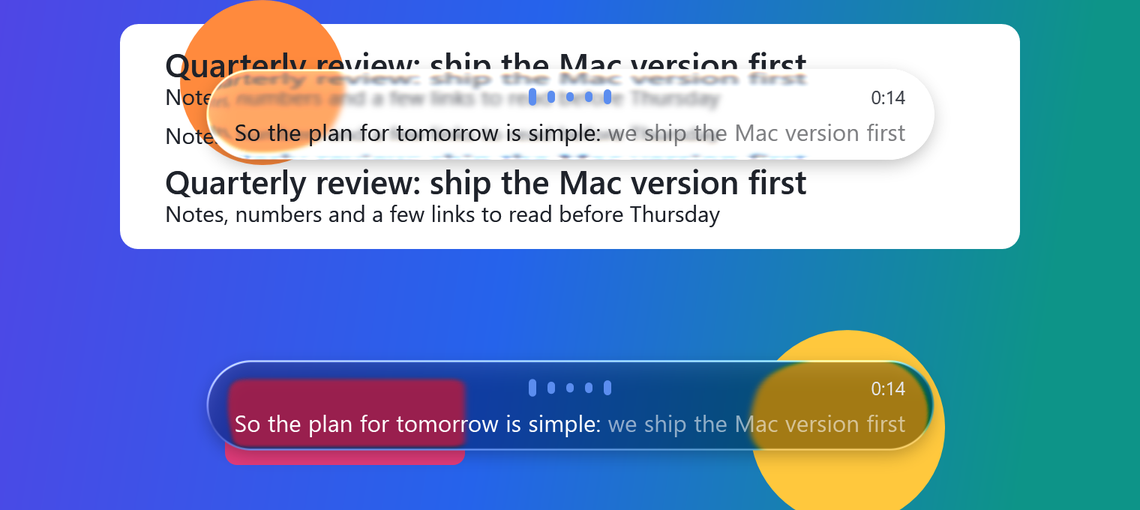
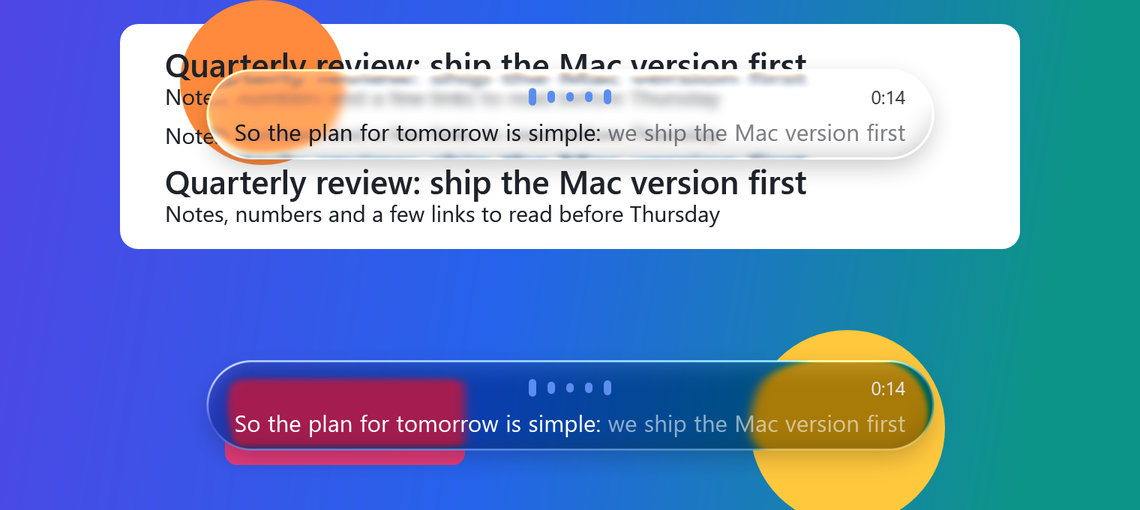
Liquid Glass closer to Apple's on both apps
- Mac: Liquid Glass is the system's own glass on macOS 26, no longer forced
  dark: it turns light or dark with what's behind it, and the words use the
  system's adaptive label colors. Before macOS 26 it is the system material,
  light or dark with the Mac, with a lit rim and a soft shadow.
- Windows: a heavier frost, more vivid color behind, the bezel a touch darker
  away from the light, and a larger, softer shadow. The room around the
  capsule grows with its size, so large capsules have space to bend and blur.
- Windows: without a compiled shader the glass layer draws no effect, rather
  than failing to render.

diff --git a/macos/Sources/SuperDictate/UI/CapsulePill.swift b/macos/Sources/SuperDictate/UI/CapsulePill.swift
@@ -125,7 +125,7 @@ struct CapsulePill: View {
                 if caption.isEmpty {
                     Text(status ?? (processing ? "Processing…" : "Listening…"))
                         .font(.system(size: 13 * scale, weight: .medium))
-                        .foregroundStyle(Color(skin.muted))
+                        .foregroundStyle(muted)
                         .transition(.opacity)
                 } else {
                     LiveWords(caption: caption, processing: processing, widest: style.textWidth, size: 14 * scale)
@@ -133,15 +133,19 @@ struct CapsulePill: View {
                 if style.timer, let started, !processing {
                     Text(timerInterval: started ... Date.distantFuture, countsDown: false)
                         .font(.system(size: 11 * scale, weight: .medium).monospacedDigit())
-                        .foregroundStyle(Color(skin.muted))
+                        .foregroundStyle(muted)
                 }
             }
         }
-        .foregroundStyle(Color(skin.text))
+        .foregroundStyle(skin.isGlass ? AnyShapeStyle(.primary) : AnyShapeStyle(Color(skin.text)))
         .padding(.horizontal, 18 * scale)
         .frame(minWidth: CapsuleStyle.narrowest * scale, minHeight: CapsuleStyle.height * scale)
         .modifier(CapsuleSurface(style: style, rim: rim))
         .opacity(style.opacity)
+    }
+
+    private var muted: AnyShapeStyle {
+        style.skin.isGlass ? AnyShapeStyle(.secondary) : AnyShapeStyle(Color(style.skin.muted))
     }
 
     private var rim: AnyShapeStyle {
@@ -154,16 +158,18 @@ struct CapsulePill: View {
             AnyShapeStyle(LinearGradient(colors: [style.accentColor, Color(RGBA(0xB36BFF)), Color(RGBA(0x3DD6C4))],
                                          startPoint: .leading, endPoint: .trailing))
         case .glass:
-            AnyShapeStyle(LinearGradient(colors: [.white.opacity(0.78), .white.opacity(0.12), .white.opacity(0.43)],
+            // Light from above catches the top of the rim, and faintly the bottom.
+            AnyShapeStyle(LinearGradient(colors: [.white.opacity(0.7), .white.opacity(0.08), .white.opacity(0.3)],
                                          startPoint: .top, endPoint: .bottom))
         }
     }
 }
 
-/// The capsule's body: the skin's fill and rim. A Liquid Glass skin is Apple's
-/// own glass on macOS 26 and later, in its dark variant so the white words read
-/// over anything; before that it is painted as on Windows, over a blur of
-/// whatever is behind it.
+/// The capsule's body: the skin's fill and rim. Liquid Glass is Apple's own
+/// glass on macOS 26 and later, light or dark with what's behind it, and the
+/// words on it follow, as on the system's own glass. Before macOS 26 (and in the
+/// snapshot pictures) it is the system material, light or dark with the Mac's
+/// appearance, with a lit rim and a soft shadow.
 private struct CapsuleSurface: ViewModifier {
     let style: CapsuleStyle
     let rim: AnyShapeStyle
@@ -172,14 +178,12 @@ private struct CapsuleSurface: ViewModifier {
     func body(content: Content) -> some View {
         if style.skin.isGlass {
             if paintsGlass {
-                paintedGlass(content)
+                materialGlass(content)
             } else {
                 if #available(macOS 26, *) {
-                    content
-                        .glassEffect(.regular, in: Capsule())
-                        .environment(\.colorScheme, .dark)
+                    content.glassEffect(.regular, in: Capsule())
                 } else {
-                    paintedGlass(content)
+                    materialGlass(content)
                 }
             }
         } else {
@@ -189,9 +193,11 @@ private struct CapsuleSurface: ViewModifier {
         }
     }
 
-    private func paintedGlass(_ content: Content) -> some View {
-        painted(content)
-            .background(.ultraThinMaterial, in: Capsule())
+    private func materialGlass(_ content: Content) -> some View {
+        content
+            .background(.regularMaterial, in: Capsule())
+            .overlay(CapsuleRim(width: 0.8 * style.scale).fill(rim, style: FillStyle(eoFill: true)))
+            .shadow(color: .black.opacity(0.2), radius: 18 * style.scale, y: 6 * style.scale)
     }
 
     private func painted(_ content: Content) -> some View {
@@ -199,15 +205,6 @@ private struct CapsuleSurface: ViewModifier {
         return content
             .background(LinearGradient(colors: [Color(skin.fill), Color(skin.fillEnd)], startPoint: .top, endPoint: .bottom),
                         in: Capsule())
-            .overlay {
-                if skin.isGlass {
-                    // The sheen glass catches across its top.
-                    Capsule()
-                        .fill(LinearGradient(colors: [.white.opacity(0.28), .white.opacity(0)], startPoint: .top, endPoint: .center))
-                        .padding(skin.borderWidth)
-                        .allowsHitTesting(false)
-                }
-            }
             .overlay(CapsuleRim(width: skin.borderWidth).fill(rim, style: FillStyle(eoFill: true)))
     }
 }

diff --git a/src/SuperDictate/Ui/LiveGlass.cs b/src/SuperDictate/Ui/LiveGlass.cs
@@ -28,14 +28,14 @@ internal sealed class LiveGlass : Grid, IDisposable
 {
     private static readonly TimeSpan Interval = TimeSpan.FromMilliseconds(50);
 
-    private readonly Image _behind = new() { Stretch = Stretch.Fill, Effect = new BlurEffect { Radius = 6 } };
+    private readonly Image _behind = new() { Stretch = Stretch.Fill, Effect = new BlurEffect { Radius = 10 } };
     private readonly GlassLens _lens = new();
     private readonly Border _shadow = new()
     {
         Background = Brushes.Black,
         HorizontalAlignment = HorizontalAlignment.Left,
         VerticalAlignment = VerticalAlignment.Top,
-        Effect = new DropShadowEffect { BlurRadius = 18, ShadowDepth = 4, Direction = 270, Opacity = 0.28 },
+        Effect = new DropShadowEffect { BlurRadius = 24, ShadowDepth = 6, Direction = 270, Opacity = 0.22 },
     };
 
     private WriteableBitmap? _image;
@@ -55,7 +55,8 @@ internal sealed class LiveGlass : Grid, IDisposable
         Children.Add(_shadow);
         // The clip keeps the blur from widening what the shader sees, so its
         // coordinates stay the layer's own.
-        Children.Add(new Grid { Effect = _lens, Children = { new Grid { ClipToBounds = true, Children = { _behind } } } });
+        // Without a shader (it didn't compile) the layer draws no effect; the window never shows it then.
+        Children.Add(new Grid { Effect = Available ? _lens : null, Children = { new Grid { ClipToBounds = true, Children = { _behind } } } });
     }
 
     /// <summary>Whether this Windows can draw the glass: its shader compiled.</summary>
@@ -258,7 +259,7 @@ internal sealed class GlassLens : ShaderEffect
             float2 k = max(q, 0);
             float edge = length(k) + min(max(q.x, q.y), 0) - lens.x;   // negative inside
             float depth = -edge;
-            float2 n = normalize(k + 0.0001) * sign(d);
+            float2 n = normalize(k + 0.0001) * (d >= 0 ? 1 : -1);
 
             // The bezel bends what lies beyond the edge in: most at the edge, none past the bezel.
             float t = saturate(1 - depth / lens.y);
@@ -268,16 +269,19 @@ internal sealed class GlassLens : ShaderEffect
             color.g = tex2D(input, uv + bend).g;
             color.b = tex2D(input, uv + bend * (1 - lens.w)).b;
 
-            // A little more vivid, then tinted for the words on top.
+            // More vivid, as glass is, then tinted for the words on top.
             float grey = dot(color, float3(0.2126, 0.7152, 0.0722));
-            color = lerp(grey.xxx, color, 1.2);
+            color = lerp(grey.xxx, color, 1.35);
             color = lerp(color, tint.rgb, tint.a);
 
+            // The bezel's thickness: a touch darker on the side away from the light.
             // Light catches the rim where it faces the light, and faintly opposite.
             float facing = dot(n, light.xy);
-            float rim = saturate(1.6 - depth);
-            color += rim * (light.z * saturate(facing) + 0.45 * light.z * saturate(-facing) + 0.12);
-            color += light.w * t * t * saturate(facing + 0.3);
+            float lit = saturate(facing);
+            float away = saturate(-facing);
+            float bezel = t * t;
+            color *= 1 - 0.18 * bezel * away;
+            color += saturate(1.6 - depth) * (light.z * (lit + 0.45 * away) + 0.12) + light.w * bezel * (lit + 0.3);
 
             float alpha = saturate(0.5 - edge);
             return float4(color * alpha, alpha);

diff --git a/src/SuperDictate/Ui/CapsuleOverlay.cs b/src/SuperDictate/Ui/CapsuleOverlay.cs
@@ -28,8 +28,8 @@ public enum OverlayState
 /// </summary>
 public sealed class CapsuleOverlay : Window
 {
-    // Room around the capsule for its shadow, and for the live glass to bend in (DIPs).
-    private const double ShadowRoom = 24;
+    // Room around the capsule for its shadow, and for the live glass to bend and blur in (DIPs).
+    private double ShadowRoom => 24 * Math.Max(1, _view.Current.Scale);
 
     // Strong ease-out, cubic-bezier(0.23, 1, 0.32, 1): arrives fast, settles softly.
     private static readonly KeySpline EaseOut = Frozen(new KeySpline(0.23, 1, 0.32, 1));
@@ -72,7 +72,6 @@ public sealed class CapsuleOverlay : Window
 
         _view.RenderTransform = new TransformGroup { Children = { _zoom, _slide } };
         _view.Opacity = 0;
-        _view.Margin = new Thickness(ShadowRoom);
         _view.VerticalAlignment = VerticalAlignment.Center;
         Content = new System.Windows.Controls.Grid { Children = { _glass, _view } };
 
@@ -126,6 +125,7 @@ public sealed class CapsuleOverlay : Window
     public void Apply(CapsuleLook look)
     {
         _view.Apply(look.Style);
+        _view.Margin = new Thickness(ShadowRoom);
         _placement = look.Placement;
         _primaryScreen = look.PrimaryScreen;
         _liveText = look.LiveText;
